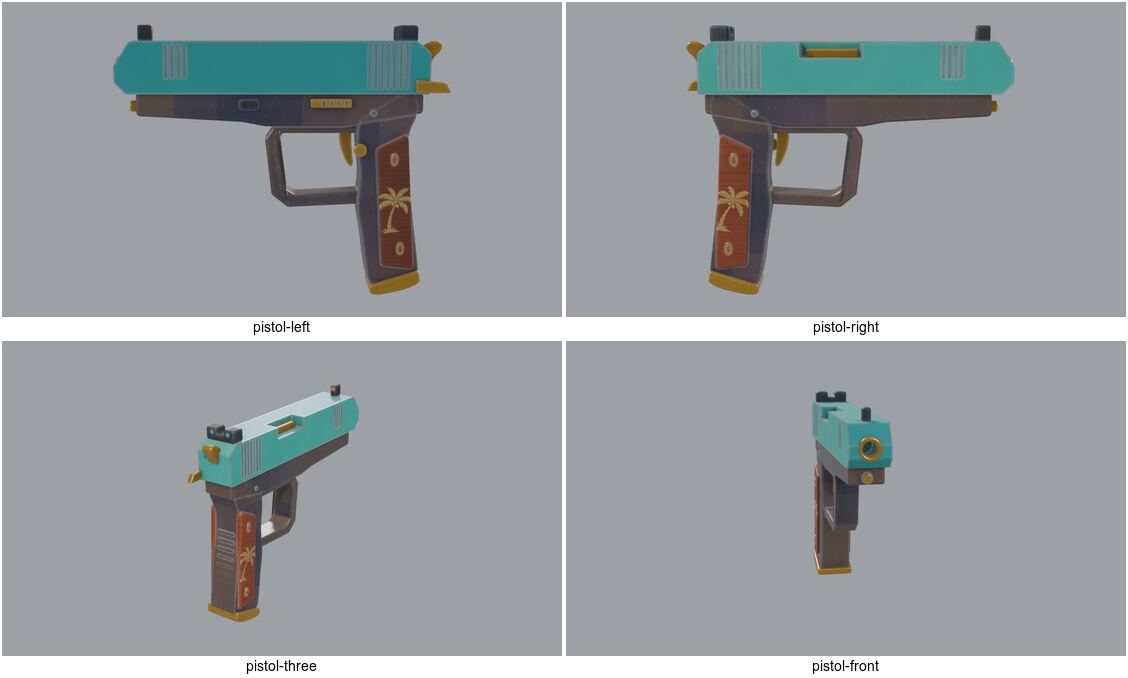
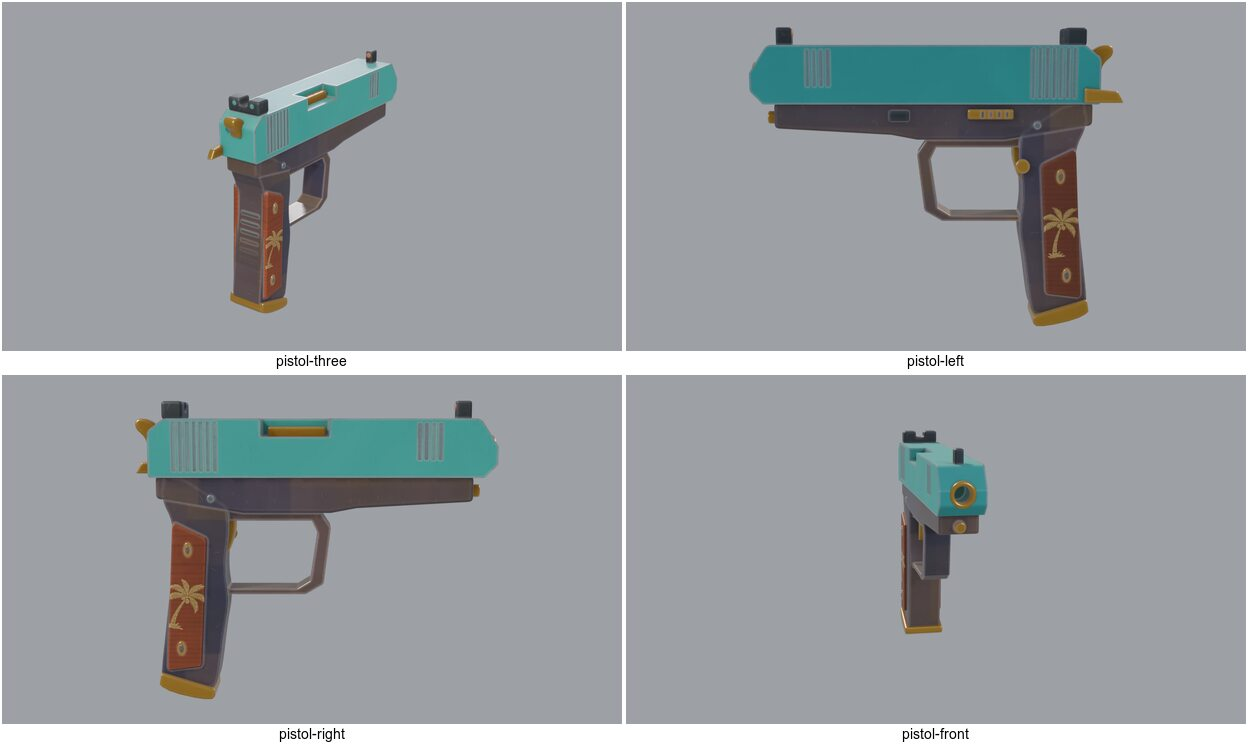
Record revolver contact verification and revised pistol evidence

diff --git a/docs/overhaul/guns-short-report.md b/docs/overhaul/guns-short-report.md
@@ -10,7 +10,7 @@ All four first-person weapons use 1024 albedo, ORM and relief-normal maps.
 
 | Weapon | FP triangles | Packed GLB bytes | World near / far triangles |
 | --- | ---: | ---: | ---: |
-| Pistol | 13,880 | 410,064 | 2,400 / 420 |
+| Pistol | 13,892 | 410,380 | 2,400 / 420 |
 | SMG | 17,332 | 503,332 | 2,398 / 660 |
 | Revolver | 23,426 | 661,676 | 2,400 / 420 |
 | Machete | 10,490 | 390,560 | 2,400 / 420 |
@@ -19,7 +19,7 @@ The four world models share the existing atlas. Targeted rebuilding preserves al
 
 ## Pistol
 
-Teal enamel slide, case-coloured frame, jacaranda scales, brass palm inlay, brass controls and magazine shoe. The trigger guard is enlarged for the thick paw digit. The stationary barrel is separate from the moving slide, and the slide stop has its own pivot.
+Teal enamel slide, case-coloured frame, jacaranda scales, brass palm inlay, brass controls and magazine shoe. The trigger guard has a thinner lower bridge to separate adjacent thick digits, and a broader trigger closer to the firing digit. The stationary barrel is separate from the moving slide, and the slide stop has its own pivot.
 
 Tactical reload retains the chambered round. Empty reload locks the slide until the support-paw release. Magazine acquisition, removal and the palm seat use a target in magazine space. Inspect presents both sides.
 
@@ -43,9 +43,9 @@ Trinta-e-oito has a blued bull barrel and vent rib, case-coloured engraved frame
 
 The reload sequence swings the cylinder out, raises the muzzle, punches the ejector, releases six separate cases, aligns the loader, leaves the rounds seated when the loader withdraws, and closes the cylinder with the support paw. Part relationships and loaded-round retention have automated coverage.
 
-Evidence: [before](evidence/guns/revolver-before.jpg), [model after](evidence/guns/revolver-model-after.jpg).
+Evidence: [before](evidence/guns/revolver-before.jpg), [model after](evidence/guns/revolver-model-after.jpg), [reload contacts](evidence/guns/revolver-reload-after.jpg).
 
-Remaining: install and visually accept final grips, fit the cylinder/ejector/loader contacts, and verify the complete reload from several angles. The current pose data is not accepted yet.
+Verified: the fitted cylinder, ejector and speedloader contacts are installed. The cylinder contact follows the moving part origin while retaining its orientation in gun space. Digits curl after the crane opens and straighten before closing. Cases travel clear of the firing forearm, and the loader stays held until hidden. The 59-pose carry and reload pass exposed one loader-release collision; nine further samples verify its correction. Eighteen additional samples cover opening and closing. Minimum measured clearance is 0.9 mm on the right and -0.2 mm on the left, within the -0.5 mm acceptance limit. Eye, both sides and top views were reviewed. Remaining: improve the two-paw ready silhouette, then repeat the affected departure and return contacts and finish world presentation.
 
 ## Machete
 
@@ -59,7 +59,7 @@ Verified: the revised elbow pole is installed. All 28 sampled hip, ADS, sprint, 
 
 ## Verification and limitations
 
-- TypeScript passes. The latest full Vitest run passed 95 files and 729 tests with two workers. The focused viewmodel suite passes 38 tests. No Playwright e2e suite was run.
+- TypeScript passes. The latest full Vitest run passed 95 files and 729 tests with two workers. The focused viewmodel suite passes 39 tests, including cylinder-contact orientation through the swing. No Playwright e2e suite was run.
 - Held and ground weapons now use the renderer's existing sky-reflection texture at the same intensity as the first-person scene. This restores readable steel edges in world lighting without adding a texture or render pass.
 - The grip solver now treats points outside its spatial-search radius as out of range, avoiding false deep penetrations against a distant triangle. Final acceptance uses the separate full-vertex probe, which also reports the struck weapon part.
 - The full probe uses a triangle bounding hierarchy. A comparison with its original exhaustive calculation matched every reported minimum and penetration count for the pistol, SMG and machete right paws; the measured calculation took about one fifth of the time.
